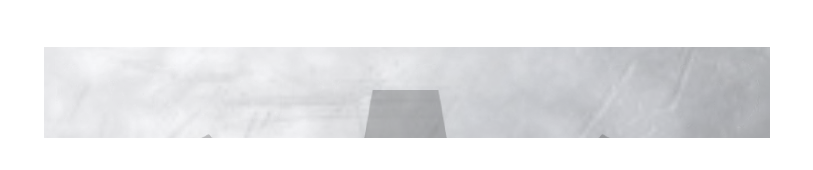
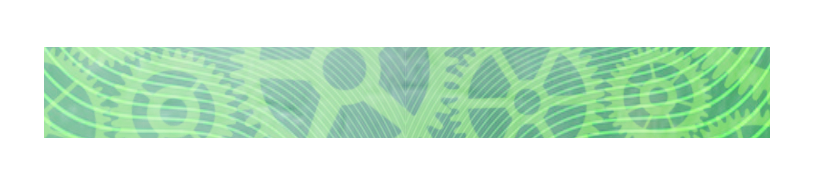
Replace Genesis frame with green gear version
Claude-Session: https://claude.ai/code/session_0177FGH3m6QBZCinvcxUppmw

diff --git a/src/model/frame.tsx b/src/model/frame.tsx
@@ -33,7 +33,7 @@ export const FrameInfoMap: Record<string, FrameInfo> = {
         nameKey: 'input.frame.genesis',
         labelColor: '#ffffff',
         edition: 'fanmade',
-        labelBackgroundColor: '#8a8f96',
+        labelBackgroundColor: '#3f9a4a',
         sortWeight: 84,
         isOfficial: false,
     },
